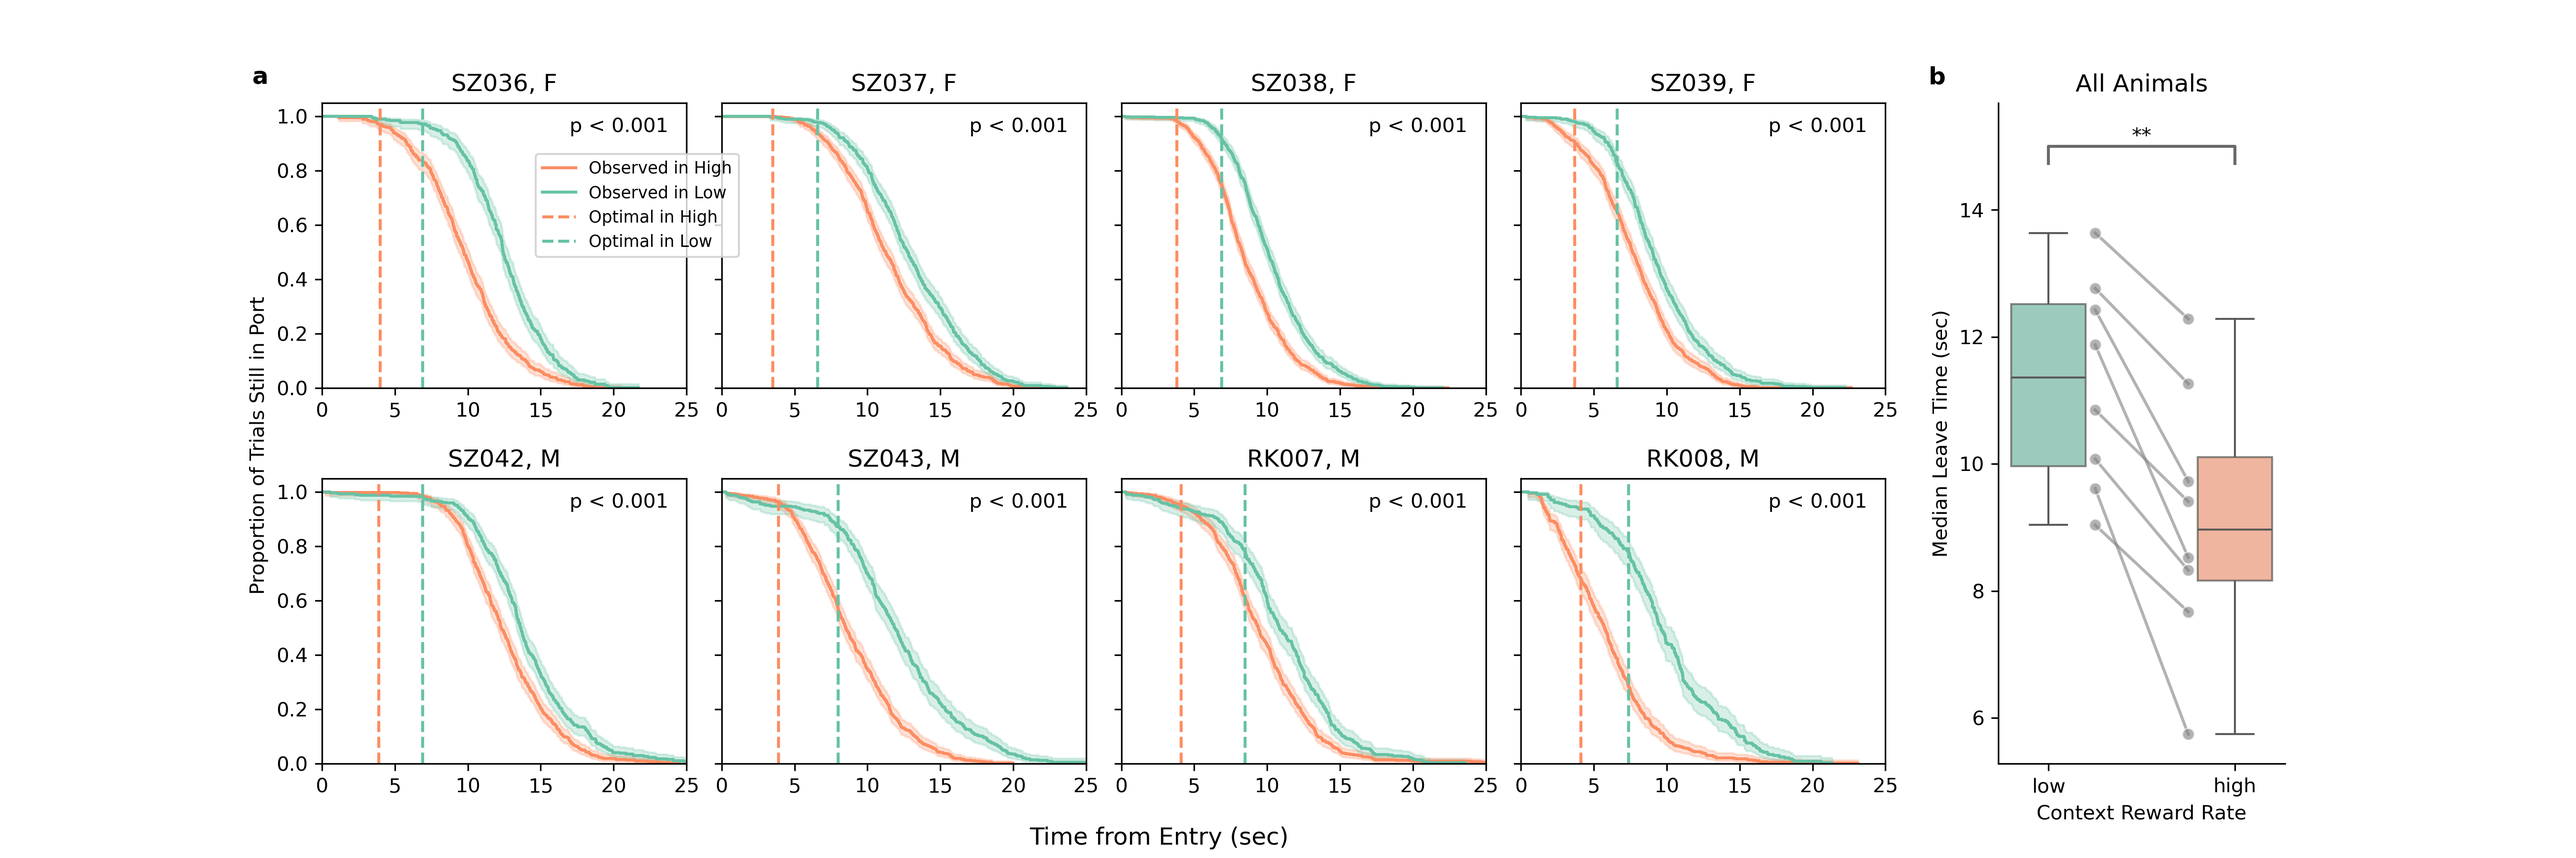
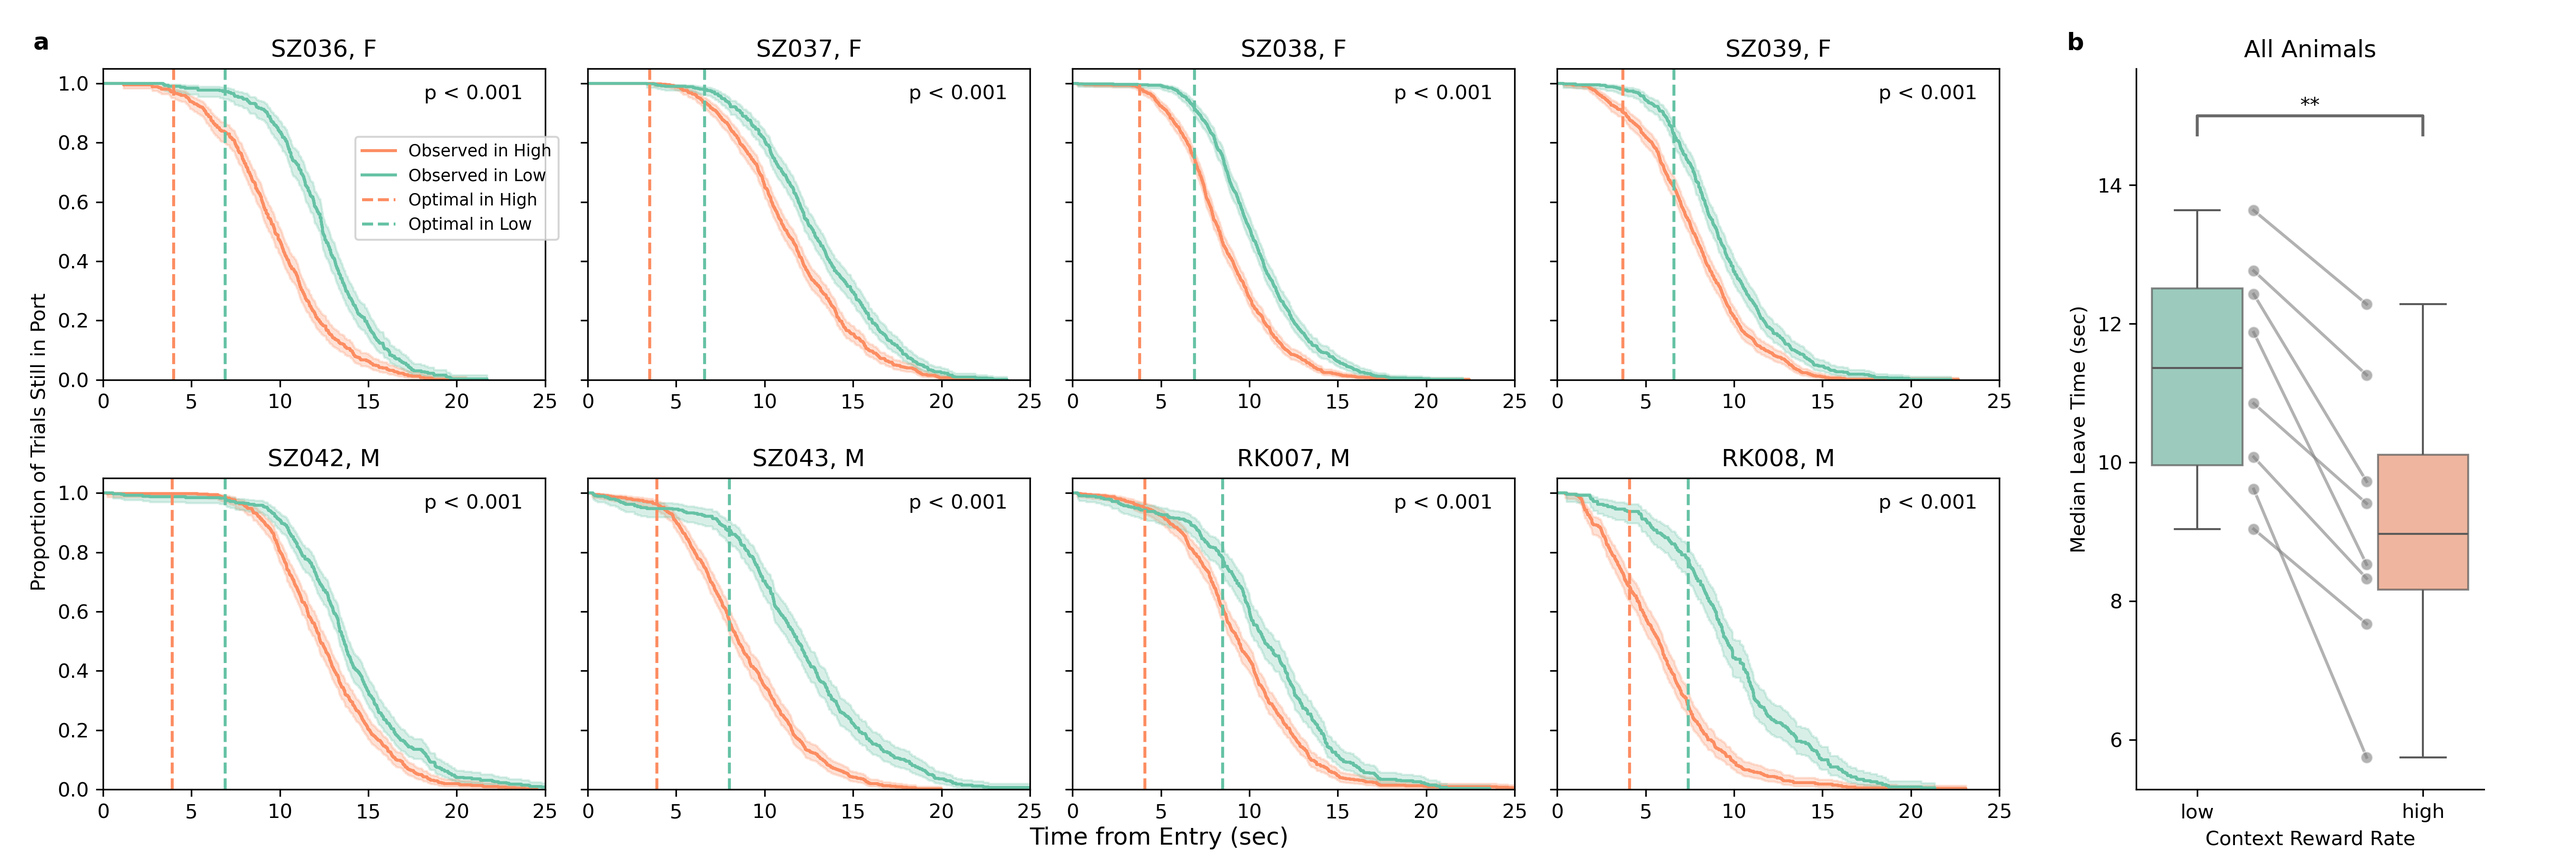
Made composite figure for block comparison

diff --git a/figure_making/fig_summary_behavior_comparison_low_vs_high.py b/figure_making/fig_summary_behavior_comparison_low_vs_high.py
@@ -249,6 +249,7 @@ def setup_composite_axes():
                     ax.transAxes + ScaledTranslation(-35 / 72, +7 / 72, fig.dpi_scale_trans)),
             fontsize='large', va='bottom', fontfamily='sans-serif', weight='bold')
 
+    fig.subplots_adjust(left=0.04, right=0.98, top=0.92, bottom=0.08)
     return fig, survival_axes, boxplot_ax
 
 def main():
@@ -309,7 +310,7 @@ def main():
     fig.supxlabel('Time from Entry (sec)', x=0.45)
     # fig.supylabel('Proportion of Trials Still in Port', x=0.04)
     handles, labels = survival_axes[0].get_legend_handles_labels()
-    fig.legend(handles, labels, loc='upper right', fontsize='small', bbox_to_anchor=(0.29, 0.83))
+    fig.legend(handles, labels, loc='upper right', fontsize='small', bbox_to_anchor=(0.22, 0.85))
     fig.tight_layout(rect=[0, 0.03, 1, 0.97])
 
     plt.savefig("all_animals_block_comparison.png", dpi=300)
